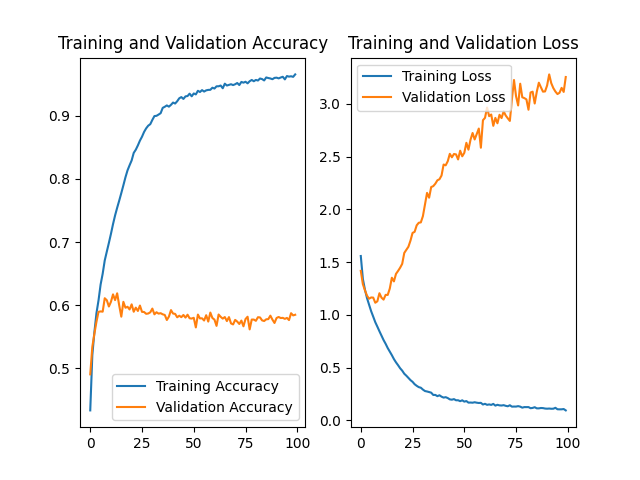
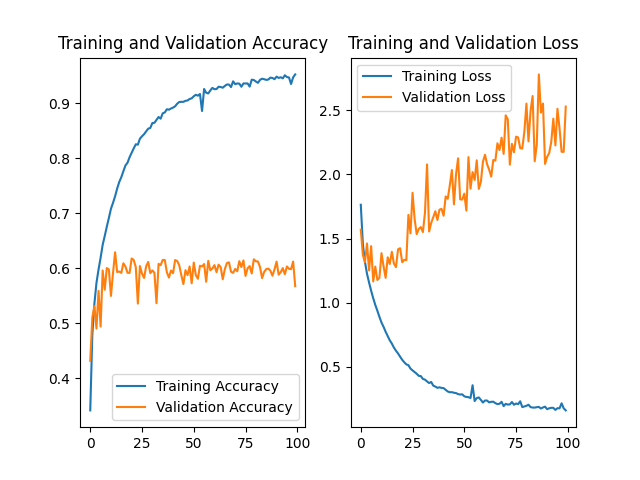
add docs

diff --git a/docs/report.tex b/docs/report.tex
@@ -198,6 +198,8 @@ ResNet论文中提出了两种Residual Function. 分别应用于ResNet34-以及R
 \subsection{选择调试超参数}
 尽管我们尽可能提高了算力，但是限于ResNet的高层数， 我们的实验次数受到了限制，只能选择有限的超参数进行调试。ResNet论文\cite{he2015deep}为一些超参数提供了建议，比如Batch Size为128, lr为0.1.基于此，使用ResNet18架构，我们选择了以下参数进行调试：
 \begin{itemize}
+	\item Loss funtion: 损失函数指明了模型的训练目标, 我们对此进行了调研
+	\item Epochs: Epochs过高可能导致过拟合，准确率下降。我们通过调研排除了这种可能
 	\item Batch size: 每次翻倍调整Batch size直到计算资源不能支持
 	\item Learning Rate: 从$10 ^ {-4}$跨数量级调试lr
 	\item Learning Rate Decay: 对比pytorch中学习率调整方法
@@ -205,7 +207,7 @@ ResNet论文中提出了两种Residual Function. 分别应用于ResNet34-以及R
 \end{itemize}
 
 \subsection {损失函数}
-损失函数指明了模型的训练目标。尽管有人指出\cite{beyer2020imagenet}ResNet损失函数使用Binary Cross Entropy Loss的表现略好于Cross Entropy Loss，但我们并没有把重点放在损失函数的选取上。我们选择了多分类问题最常使用的Cross Entropy Loss函数。
+尽管有人指出\cite{beyer2020imagenet}ResNet损失函数使用Binary Cross Entropy Loss的表现略好于Cross Entropy Loss，但我们并没有把重点放在损失函数的选取上。我们选择了多分类问题最常使用的Cross Entropy Loss函数。
 
 \subsection{Epoch}
 在模型超参数调试完成之后，我们发现每次Epoch在我们的训练集群上需要20S左右训练。考虑到训练和实验的总规模，我们把Epoch总数定为100和300两个MileStone. 100 Epochs达到时按要求记录报告准确率，200为最大迭代次数，时为了挖掘模型的最大准确率。我们阅读的论文有许多模型都会运行多达600个或者更多Epochs，限于算力，我们只运行200个并且保存测试集上工作的最好的参数报告。
@@ -271,8 +273,11 @@ pytorch中主要支持6种学习率调整方法。一般而言，训练初期给
 	\end{tabular}
 \end{table}
 
-\subsection{Tensorboard 数据}
+\subsection{训练过程回顾}
 
+\subsubsection{Tensorboard 数据}
+
+\subsubsection{图示训练过程}
 
 \section{Appendix A}
 在选择方向的过程中，我们回顾了自从CNN提出以来的各种变体以及其成绩，并且获取了一些Tensorflow实现并且运行。您可以在./others里面查看这些模型并且复现结果。由于数据对显存要求远大于对显卡性能要求，我们没有保持硬件环境的一致。
@@ -282,13 +287,13 @@ pytorch中主要支持6种学习率调整方法。一般而言，训练初期给
 		Arch name   & Hardware      & Param size & Epochs & Batch size & Running time & Accuracy \\ \hline
 		VGG16       & Nvidia 2080Ti & 183.10 MB  & 100    & 32         & 61 mins      & 76.20\%  \\ \hline
 		alexnet8    & Nvidia T80    & 115.67 MB  & 100    & 32         & 145 mins     & 61.62\%  \\ \hline
-		resnet18-tf & Nvidia 2080Ti & 134.16 MB  & 100    & 32         &              &          \\ \hline
-		inception10 & Nvidia 2080Ti & 1.51 MB    & 100    & 32         &              &          \\ \hline
+		resnet18-tf & Nvidia 2080Ti & 134.16 MB  & 100    & 32         & 59 mins     & 61.50\%    \\ \hline
+		inception10 & Nvidia 2080Ti & 1.51 MB    & 100    & 32         &              &  73.66\%    \\ \hline
 	\end{tabular}
 \end{table}
 \\
 \indent
-我们借此快速了解了各个模型的特点和能力，选择了ResNet继续研究。下图是这些模型的准确度，损失函数对于Epochs的图像：
+我们借此快速了解了各个模型的特点和能力，并且经过进一步了解，选择了ResNet继续研究。下图是这些模型的准确度，损失函数对于Epochs的图像：
 \begin{figure}[H]
 	\centering
 	\subfigure[Alex8Net]{
